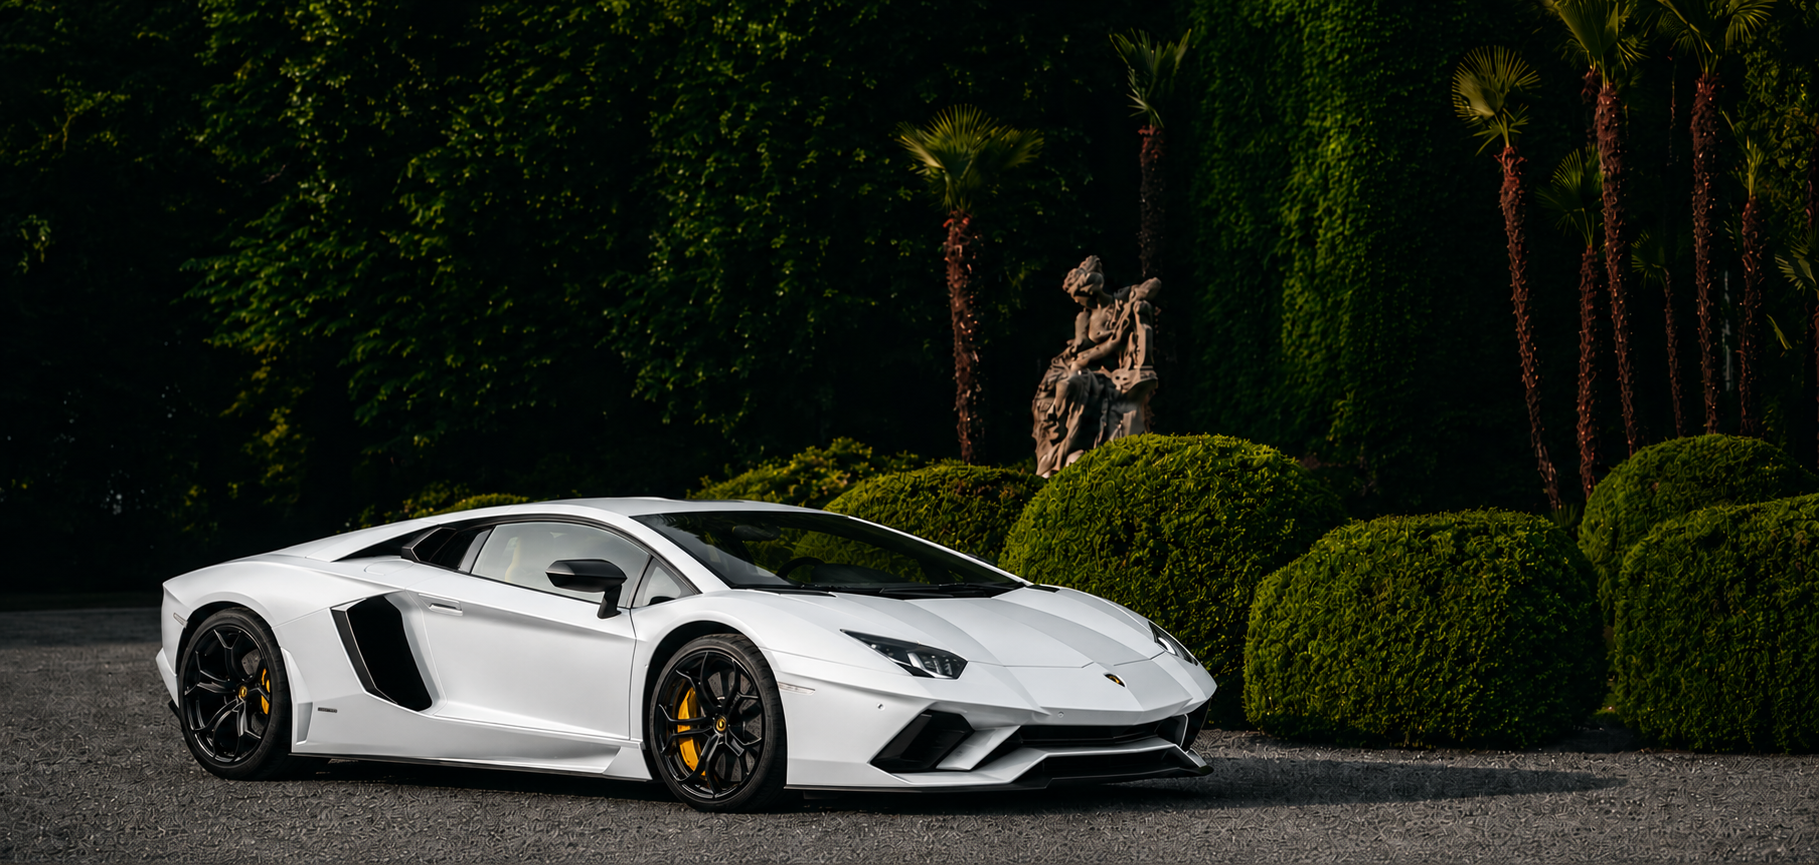
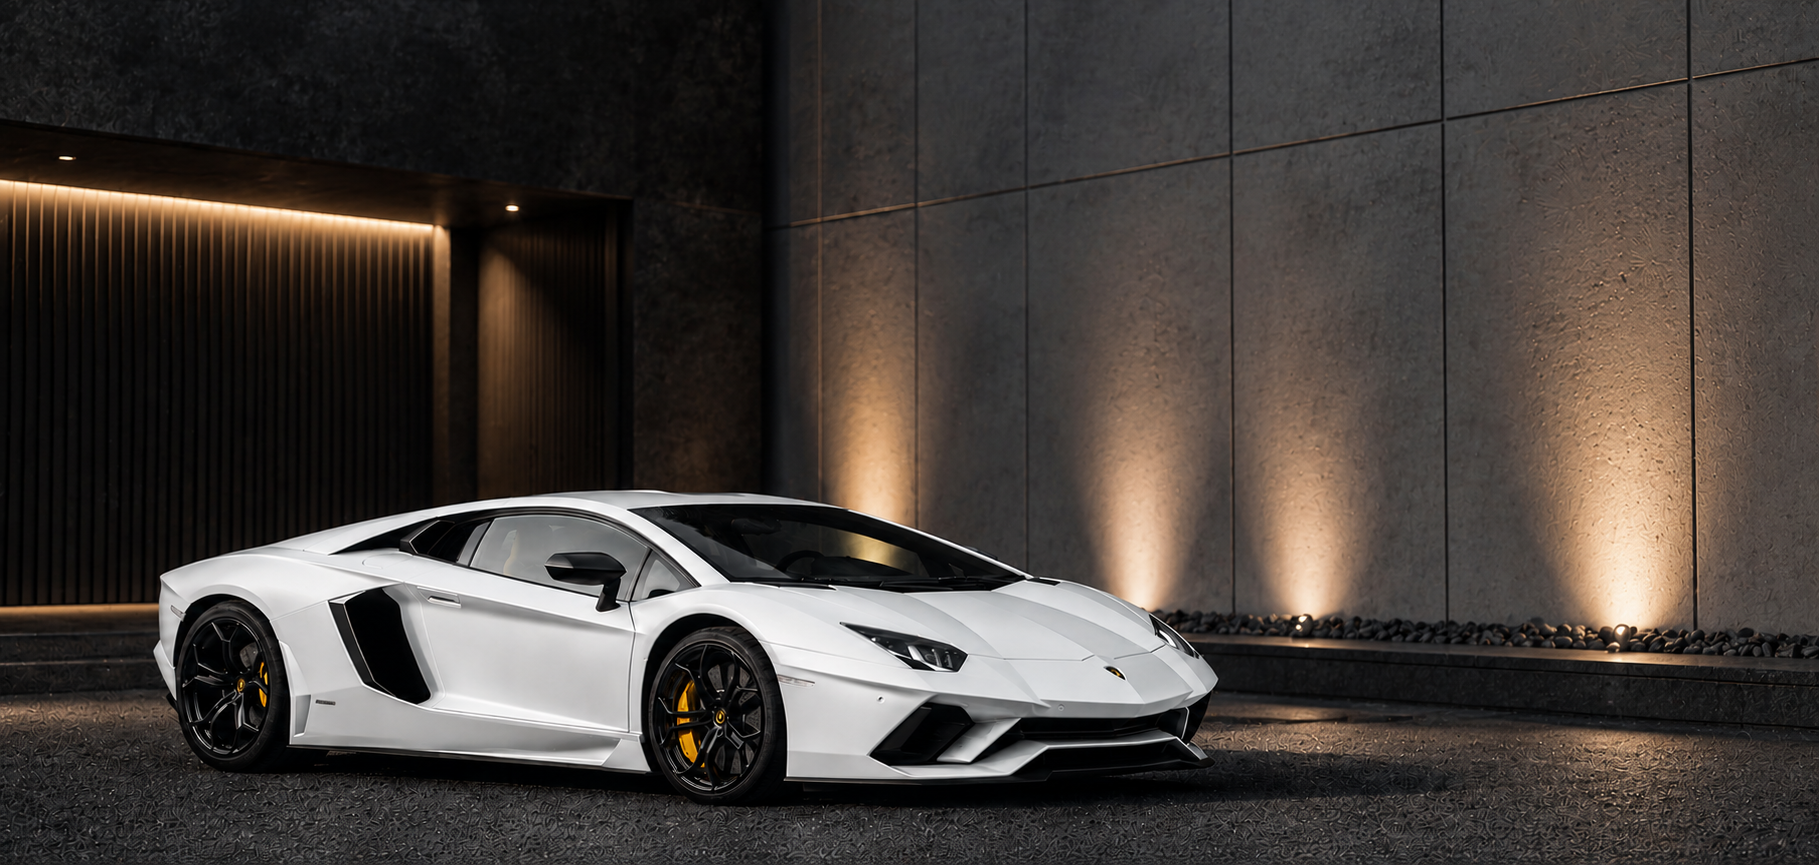
feat: add footer

diff --git a/src/components/Footer.tsx b/src/components/Footer.tsx
@@ -1,0 +1,146 @@
+import {
+  FaWhatsapp,
+  FaInstagram,
+  FaFacebook,
+  FaPinterest,
+} from "react-icons/fa";
+import { RiTwitterXFill } from "react-icons/ri";
+import { Separator } from "@/components/ui/separator";
+// import logoImage from "../assets/logo.png";
+
+export default function Footer() {
+  return (
+    <footer className="bg-secondary mx-10 mb-10 px-4 py-20 md:px-20 space-y-10 text-white rounded-xl">
+      <div className="grid grid-cols-1 grid-rows-4 md:grid-cols-2 md:grid-rows-2 lg:grid-cols-3 lg:grid-rows-1 gap-10 md:gap-20">
+        {/* Brand */}
+        <div className="space-y-3">
+          <div className="flex items-center gap-x-2">
+            {/* <img src={logoImage} alt="Logo" className="h-16" /> */}
+            <h1 className="font-semibold text-3xl">Veluxe</h1>
+          </div>
+
+          <blockquote className="italic text-white/80">
+            Veluxe delivers premium luxury and performance vehicles with modern
+            design, advanced technology, and unforgettable driving experiences.
+          </blockquote>
+
+          <div className="flex items-center gap-x-4 pt-2">
+            <a href="#">
+              <FaWhatsapp size={22} />
+            </a>
+            <a href="#">
+              <FaInstagram size={22} />
+            </a>
+            <a href="#">
+              <FaFacebook size={22} />
+            </a>
+            <a href="#">
+              <FaPinterest size={22} />
+            </a>
+            <a href="#">
+              <RiTwitterXFill size={22} />
+            </a>
+          </div>
+        </div>
+
+        {/* Contact */}
+        <div className="space-y-3">
+          <h1 className="text-2xl font-semibold mb-4">Contact Info</h1>
+
+          <p className="text-md text-white/80">
+            Jl. Luxury Avenue No. 88, Jakarta, Indonesia
+          </p>
+
+          <p className="text-md text-white/80">[phone redacted]</p>
+
+          <p>
+            <a
+              href="mailto:[email redacted]"
+              className="text-md cursor-pointer hover:text-primary transition duration-300"
+            >
+              [email redacted]
+            </a>
+          </p>
+
+          <p>
+            <a
+              href="https://www.veluxe.com"
+              className="text-md cursor-pointer hover:text-primary transition duration-300"
+            >
+              www.veluxe.com
+            </a>
+          </p>
+        </div>
+
+        {/* Navigation */}
+        <div className="space-y-3">
+          <h1 className="text-2xl font-semibold mb-4">Quick Links</h1>
+
+          <p>
+            <a
+              href="#"
+              className="text-md cursor-pointer hover:text-primary transition duration-300"
+            >
+              Home
+            </a>
+          </p>
+
+          <p>
+            <a
+              href="#about"
+              className="text-md cursor-pointer hover:text-primary transition duration-300"
+            >
+              About Us
+            </a>
+          </p>
+
+          <p>
+            <a
+              href="#services"
+              className="text-md cursor-pointer hover:text-primary transition duration-300"
+            >
+              Services
+            </a>
+          </p>
+
+          <p>
+            <a
+              href="#vehicles"
+              className="text-md cursor-pointer hover:text-primary transition duration-300"
+            >
+              Vehicles
+            </a>
+          </p>
+        </div>
+      </div>
+
+      <Separator />
+
+      <div className="flex flex-col md:flex-row items-start lg:items-center justify-between text-lg md:text-md gap-4">
+        <p className="text-white/80 w-full md:w-3/4 lg:w-full">
+          © 2026 Veluxe. All rights reserved.
+        </p>
+
+        <div className="flex items-center justify-start md:justify-end gap-x-4 w-full">
+          <p>
+            <a
+              href="#"
+              className="cursor-pointer hover:text-primary transition duration-300"
+            >
+              Privacy Policy
+            </a>
+          </p>
+
+          <p>
+            <a
+              href="#"
+              className="cursor-pointer hover:text-primary transition duration-300"
+            >
+              Terms of Use
+            </a>
+          </p>
+        </div>
+      </div>
+    </footer>
+  );
+}

diff --git a/src/layouts/MainLayout.tsx b/src/layouts/MainLayout.tsx
@@ -1,4 +1,4 @@
-// import Footer from "@/components/Footer";
+import Footer from "@/components/Footer";
 import Navbar from "@/components/Navbar";
 
 type Props = {
@@ -7,10 +7,10 @@ type Props = {
 
 export default function MainLayout({ children }: Props) {
   return (
-    <div>
+    <div className=" bg-gray-50">
       <Navbar />
-      <main className="pt-18 bg-gray-50">{children}</main>
-      {/* <Footer /> */}
+      <main className="pt-18">{children}</main>
+      <Footer />
     </div>
   );
 }

diff --git a/src/sections/Hero.tsx b/src/sections/Hero.tsx
@@ -14,6 +14,8 @@ export default function Hero() {
         backgroundPosition: "bottom",
       }}
     >
+      {" "}
+      relative absolute
       <div className="max-w-1/3 space-y-8">
         <h1 className="text-6xl font-medium">Luxury car rental in Italy</h1>
         <a href="">
@@ -43,7 +45,7 @@ export default function Hero() {
           </p>
         </div>
       </div>
-      <div className="absolute left-1/2 -translate-x-1/2 -bottom-16 w-[90%] flex items-center justify-between gap-12 bg-secondary/80 py-4 ps-10 pe-4 rounded-xl border border-gray-400">
+      <div className="absolute left-1/2 -translate-x-1/2 -bottom-16 w-[90%] flex items-center justify-between gap-12 bg-secondary py-4 ps-10 pe-4 rounded-xl border border-gray-400">
         <div>
           <h1 className="text-lg text-white/60">Pick Up Address</h1>
           <p>From: address, airport, hotel, ....</p>

diff --git a/src/components/Navbar.tsx b/src/components/Navbar.tsx
@@ -9,7 +9,7 @@ export default function Navbar() {
     <nav
       className="
         fixed w-full z-50 top-0 left-0 transition-all duration-300
-       bg-white"
+       bg-gray-50"
     >
       <div className="max-w-7xl mx-auto flex items-center justify-between p-4">
         <a href="#" className="flex items-center gap-2">